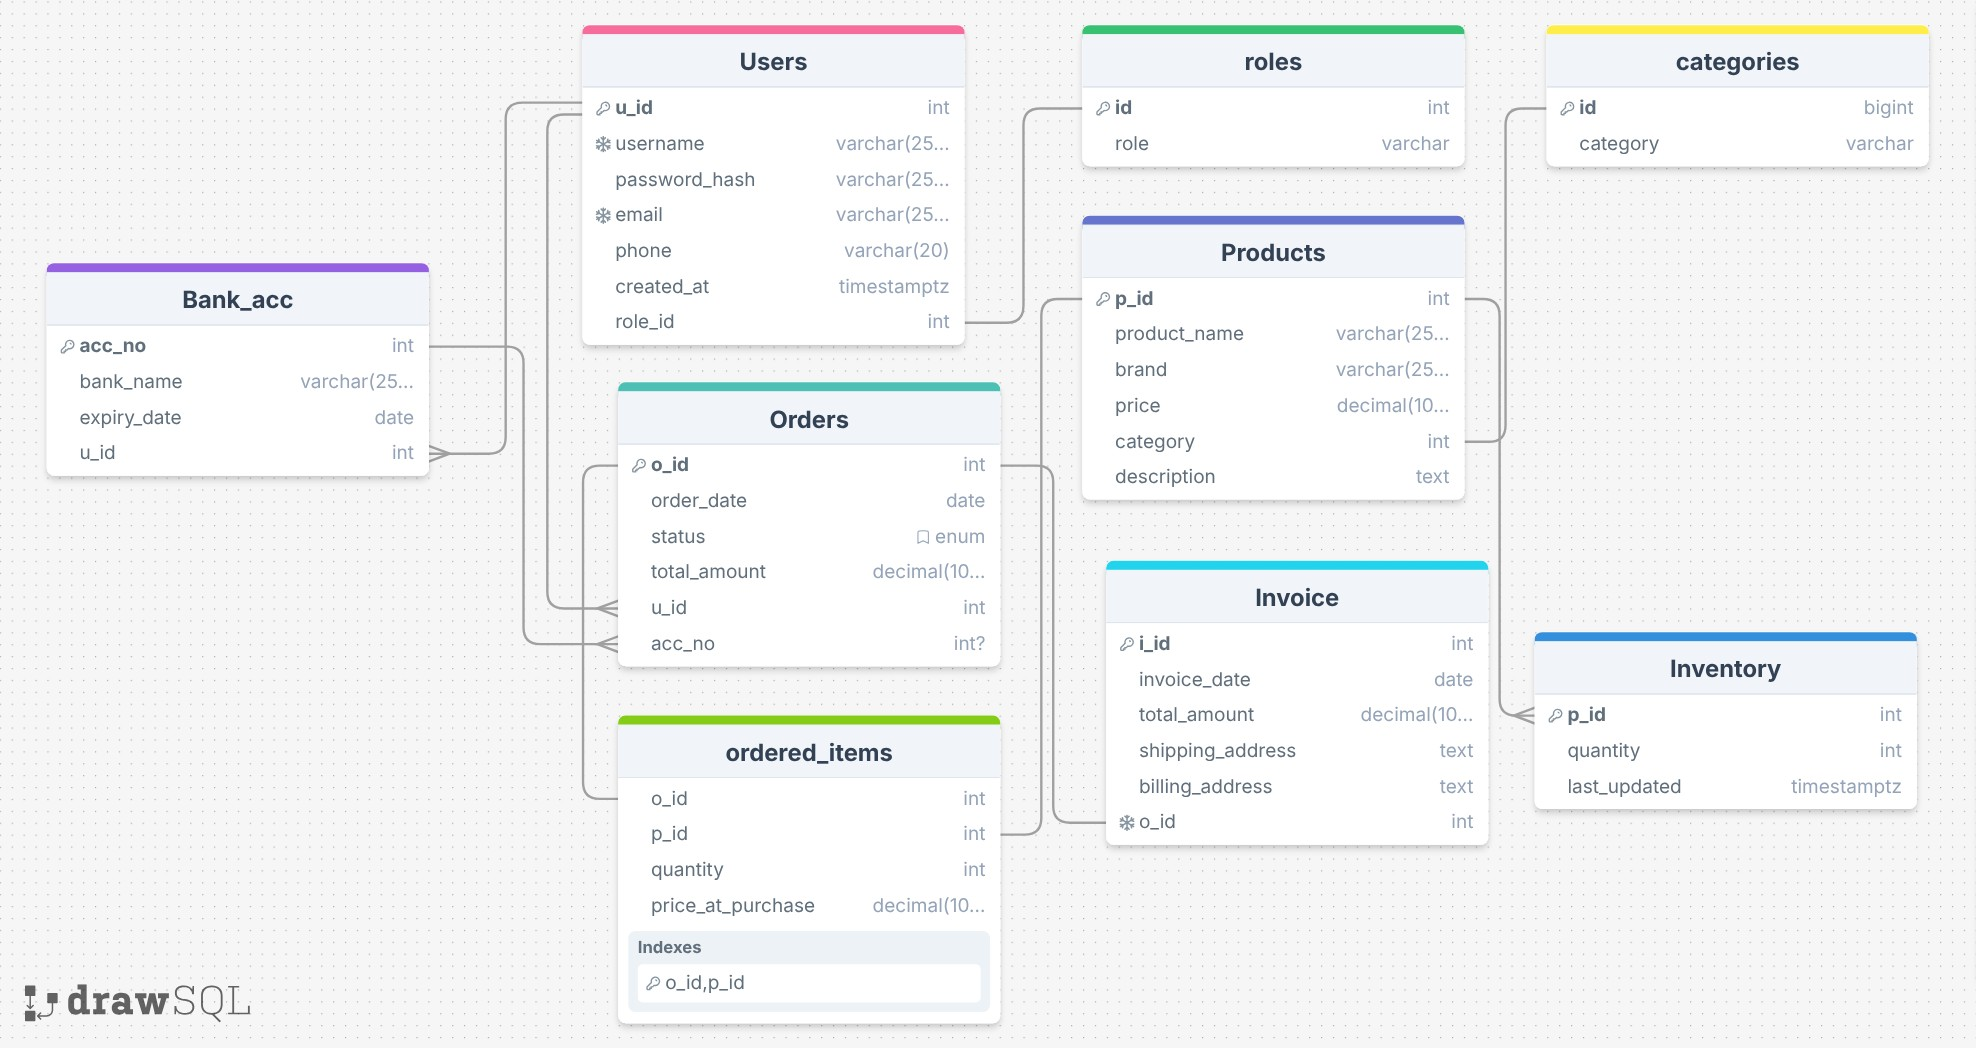
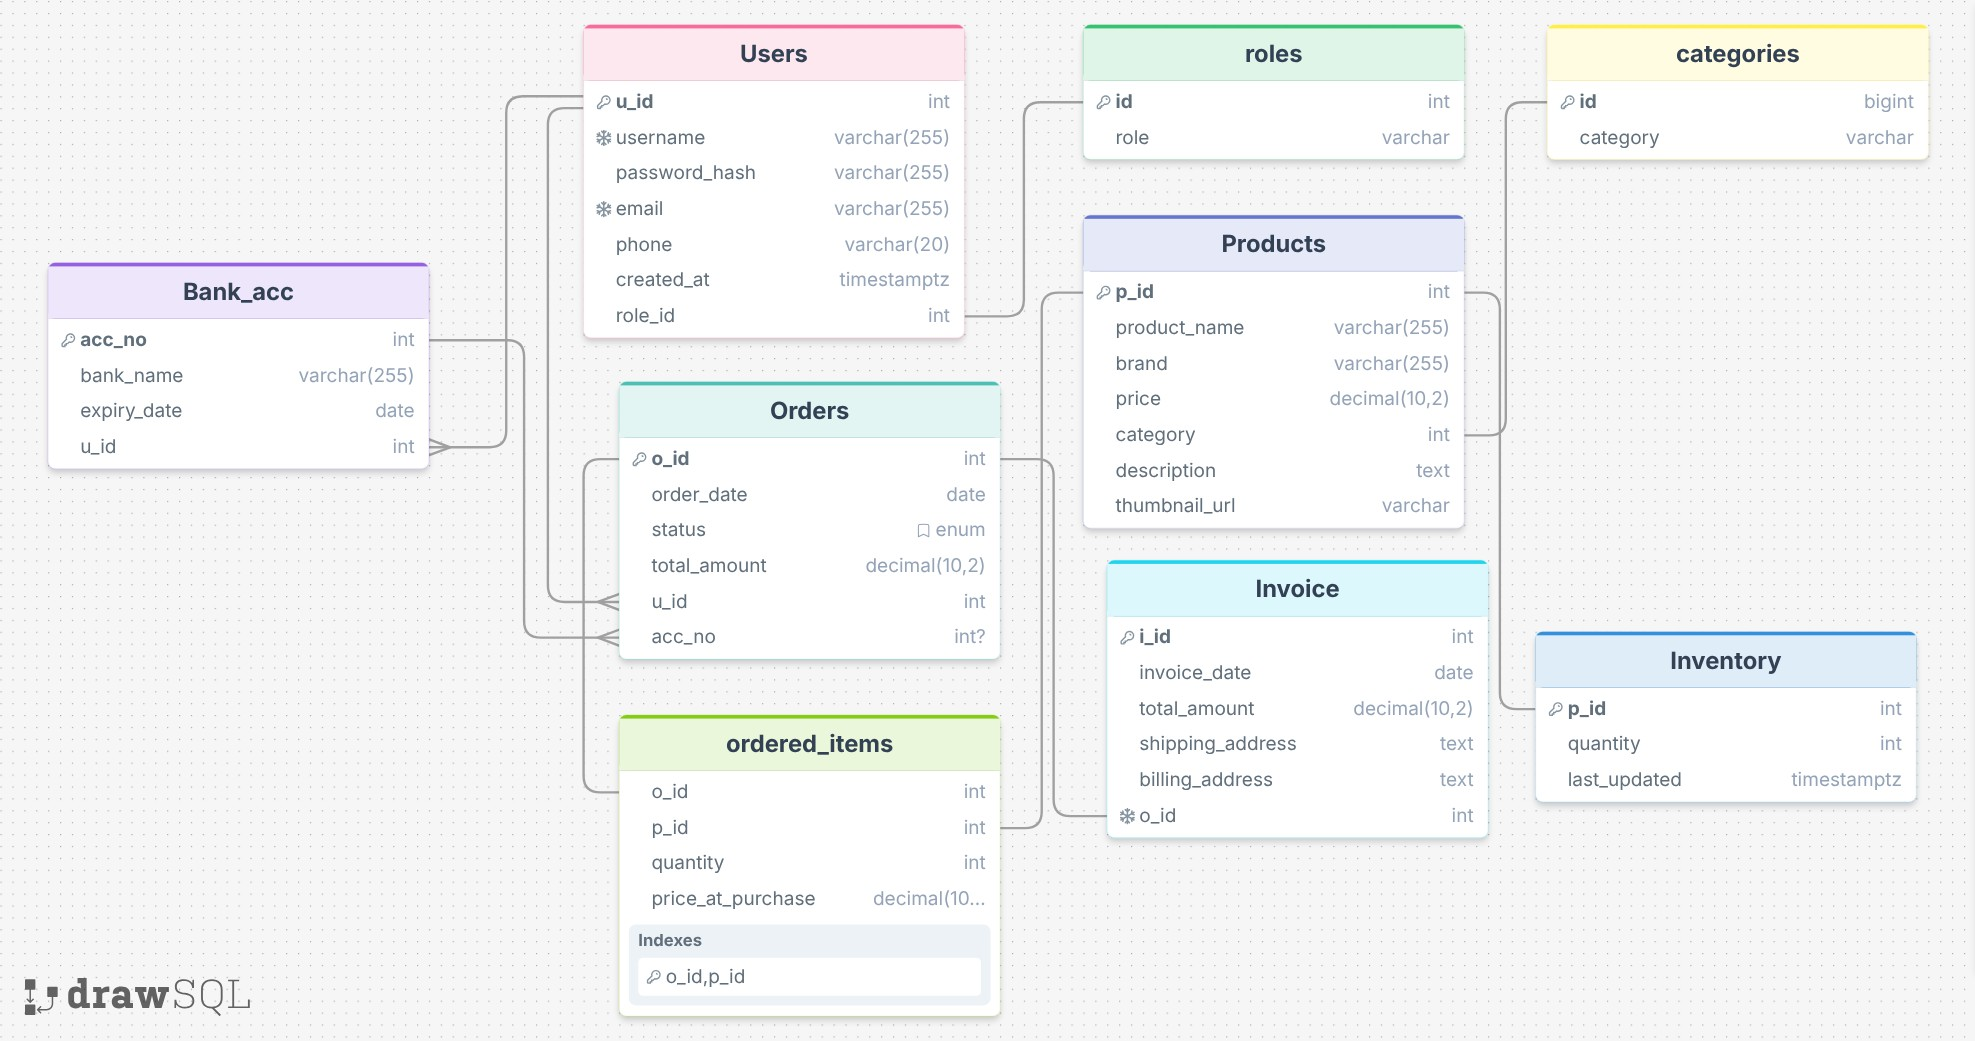
Fixed ER and schema diagram

diff --git a/docs/ER.md b/docs/ER.md
@@ -10,21 +10,21 @@ This document provides details for the Entity Relation diagram along with the re
 #### Type: Strong entity
 - Used for storing user information.
 - Also used to link a user to their bank account if they wish to link it.
-- Each user can own __0 or more Bank accounts__, and can also place __0 or more orders__.
+- Each user can own __0 or more bank accounts__, and can also place __0 or more orders__.
 
 ### 2. Bank Account
 #### Type: Strong entity
-- Used for storing a users banking information
+- Used for storing a user's banking information.
 - Each bank account must be linked to __1 user__, and each bank account can be used to make __0 or more order payments__.
 
 ### 3. Orders
 #### Type: Strong entity
 - Used for keeping track of user orders
-- Each order is linked to exactly __1 user__, can be paid by exactly __1 bank account__, __can have 1 or more products__, and has exactly __1 invoice__.
+- Each order is linked to exactly __1 user__, may be paid by __0 or 1 bank account__, can have __1 or more products__, and has exactly __1 invoice__.
 
 ### 4. Invoice
 #### Type: Strong entity
-- Used for maintaing invoice related to each order
+- Used for maintaining invoice information related to each order.
 - Each invoice is linked to exactly __1 order__.
 
 ### 5. Products
@@ -34,7 +34,7 @@ This document provides details for the Entity Relation diagram along with the re
 
 ### 6. Inventory
 #### Type: Weak entity
-- Used for maintaining a track of how much inventory of the product is available.
+- Used for maintaining a track of how much inventory of a product is available.
 - Each inventory log corresponds to exactly __1 product__.
 
 
@@ -46,12 +46,12 @@ This document provides details for the Entity Relation diagram along with the re
 
 
 ### 2. _User_ owns _Bank account_
-#### __Cardinaltiy__: (Users) One to Many (Bank Accounts)
+#### __Cardinality__: (Users) One to Many (Bank Accounts)
 #### __Type__: Total participation on the many (Bank Accounts) side.
 
 ### 3. _Order_ paid using _Bank account_
-#### __Cardinaltiy__: (Orders) Many to One (Bank Accounts)
-#### __Type__: Total participation on the many (Orders) side.
+#### __Cardinality__: (Orders) Zero-or-one to One (Bank Accounts), optional on the Orders side
+#### __Type__: Partial participation on the Orders side (because `acc_no` is nullable in the schema).
 
 ### 4. _Order_ generates _Invoice_
 #### __Cardinality__: (Orders) One to One (Invoice)

diff --git a/docs/schema.md b/docs/schema.md
@@ -16,7 +16,6 @@ This document outlines the tables used for the application, along with their fie
 
 **Constraints:**
 - Primary Key: `id`
-- Unique: `role`
 - NOT NULL: `role`
 
 ---
@@ -29,7 +28,6 @@ This document outlines the tables used for the application, along with their fie
 
 **Constraints:**
 - Primary Key: `id`
-- Unique: `category`
 - NOT NULL: `category`
 
 ---
@@ -52,6 +50,7 @@ This document outlines the tables used for the application, along with their fie
 - Foreign Key: `role_id` → `roles(id)` ON DELETE RESTRICT
 - Unique: `username`
 - Unique: `email`
+- Default: `created_at = CURRENT_TIMESTAMP`
 - NOT NULL: `username`, `password_hash`, `email`, `phone`, `created_at`, `role_id`
 
 ---
@@ -78,14 +77,15 @@ This document outlines the tables used for the application, along with their fie
 - `product_name` – VARCHAR(255)
 - `brand` – VARCHAR(255)
 - `price` – DECIMAL(10,2)
-- `category` – INTEGER
+- `category_id` – BIGINT
 - `description` – TEXT
+- `thumbnail_url` – VARCHAR(1024) (nullable)
 
 **Constraints:**
 - Primary Key: `p_id`
-- Foreign Key: `category` → `categories(id)` ON DELETE RESTRICT
+- Foreign Key: `category_id` → `categories(id)` ON DELETE RESTRICT
 - CHECK: `price ≥ 0`
-- NOT NULL: `product_name`, `brand`, `price`, `category`, `description`
+- NOT NULL: `product_name`, `brand`, `price`, `category_id`, `description`
 
 ---
 
@@ -94,10 +94,12 @@ This document outlines the tables used for the application, along with their fie
 **Fields:**
 - `o_id` – INTEGER
 - `order_date` – DATE
-- `status` – VARCHAR(50)
+- `status` – VARCHAR(255)
 - `total_amount` – DECIMAL(10,2)
 - `u_id` – INTEGER
-- `acc_no` – INTEGER
+- `acc_no` – INTEGER (nullable)
+- `shipping_address` – TEXT (nullable)
+- `billing_address` – TEXT (nullable)
 
 **Constraints:**
 - Primary Key: `o_id`
@@ -141,6 +143,7 @@ This document outlines the tables used for the application, along with their fie
 - Primary Key: `p_id`
 - Foreign Key: `p_id` → `Products(p_id)` ON DELETE CASCADE
 - CHECK: `quantity ≥ 0`
+- Default: `last_updated = CURRENT_TIMESTAMP`
 - NOT NULL: `quantity`, `last_updated`
 
 ---
